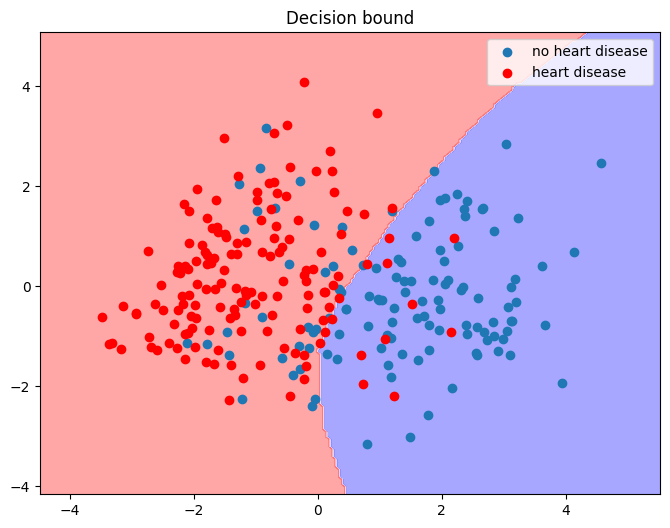
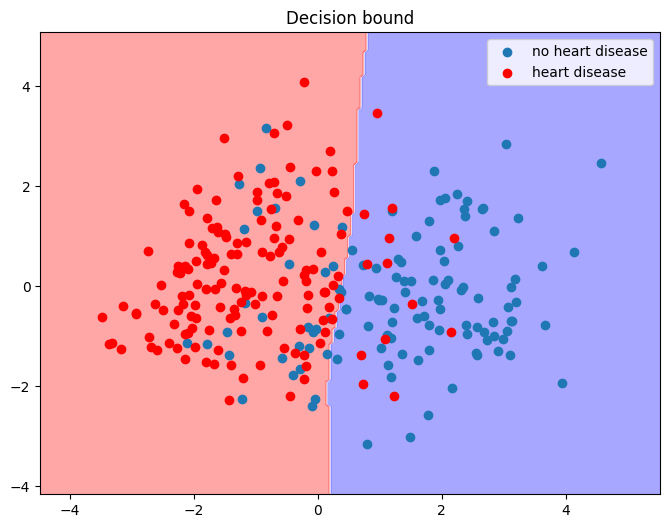
stopping criterion maximizes accuracy

Changed region(s): [[0.5075, 0.0606, 0.8657, 0.5455], [0.4776, 0.5758, 0.5373, 0.9394]]

diff --git a/neural_nets/neural_net.py b/neural_nets/neural_net.py
@@ -178,7 +178,7 @@ class Network:
         err_array = []
         test_acc_array = []
         test_err_array = []
-        best_test_err = 1e5
+        best_test_acc = 0
 
         # training loop
         for i in range(1, epochs+1):
@@ -221,9 +221,9 @@ class Network:
             test_err_array.append(test_err)
             test_acc_array.append(test_acc)
 
-            if best_test_err > test_err:
-                print("      new best found with test error:", test_err, "at epoch:", i, "and has test_acc:", test_acc)
-                best_test_err = test_err
+            if best_test_acc < test_acc:
+                print("      new best found at epoch %d   -   error=%f   accuracy=%f   test_err=%f   test_acc=%f" % (i, err, acc, test_err, test_acc))
+                best_test_acc = test_acc
                 self.best_layers = copy.deepcopy(self.layers)
 
             if i % 100 == 0:
